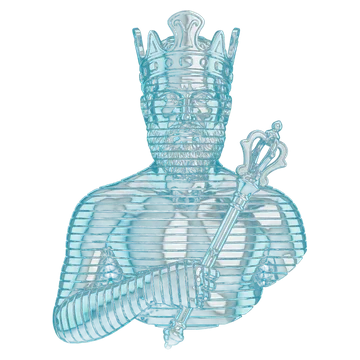
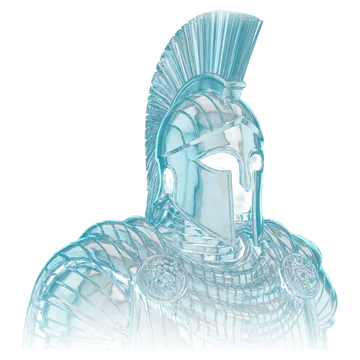
Roadmap: V8 Agamemnon in a closed war helmet with lion medallions

diff --git a/public/roadmap.html b/public/roadmap.html
@@ -175,7 +175,7 @@
     </div>
     <ol class="rm-later-g">
       <li class="rm-later-c rv"><figure class="rm-later-art" aria-hidden="true" style="--d:-0.0s;--m:url(/img/roadmap/later/v7-athena.webp)"><span class="rm-later-fig"><img src="/img/roadmap/later/v7-athena.webp" alt="" loading="lazy" decoding="async" width="360" height="360"><i></i></span></figure><span class="rm-later-v">V7</span><b>Athena</b><small>Goddess of wisdom and strategy, Odysseus's guide</small><span>Strategy: agents that plan better.</span></li>
-      <li class="rm-later-c rv"><figure class="rm-later-art" aria-hidden="true" style="--d:-1.1s;--m:url(/img/roadmap/later/v8-agamemnon.webp)"><span class="rm-later-fig"><img src="/img/roadmap/later/v8-agamemnon.webp" alt="" loading="lazy" decoding="async" width="360" height="360"><i></i></span></figure><span class="rm-later-v">V8</span><b>Agamemnon</b><small>King of Mycenae, commander of every Greek army at Troy</small><span>Command: many agents led as one.</span></li>
+      <li class="rm-later-c rv"><figure class="rm-later-art" aria-hidden="true" style="--d:-1.1s;--m:url(/img/roadmap/later/v8-agamemnon.webp?v=3)"><span class="rm-later-fig"><img src="/img/roadmap/later/v8-agamemnon.webp?v=3" alt="" loading="lazy" decoding="async" width="360" height="360"><i></i></span></figure><span class="rm-later-v">V8</span><b>Agamemnon</b><small>King of Mycenae, commander of every Greek army at Troy</small><span>Command: many agents led as one.</span></li>
       <li class="rm-later-c rv"><figure class="rm-later-art" aria-hidden="true" style="--d:-2.2s;--m:url(/img/roadmap/later/v9-achilles.webp)"><span class="rm-later-fig"><img src="/img/roadmap/later/v9-achilles.webp" alt="" loading="lazy" decoding="async" width="360" height="360"><i></i></span></figure><span class="rm-later-v">V9</span><b>Achilles</b><small>The greatest warrior of the Trojan War</small><span>Strength and speed for serious traders.</span></li>
       <li class="rm-later-c rv"><figure class="rm-later-art" aria-hidden="true" style="--d:-3.3s;--m:url(/img/roadmap/later/v10-poseidon.webp)"><span class="rm-later-fig"><img src="/img/roadmap/later/v10-poseidon.webp" alt="" loading="lazy" decoding="async" width="360" height="360"><i></i></span></figure><span class="rm-later-v">V10</span><b>Poseidon</b><small>God of the sea, the voyage's hardest crossing</small><span>The seas: liquidity and more chains.</span></li>
       <li class="rm-later-c rv"><figure class="rm-later-art" aria-hidden="true" style="--d:-4.4s;--m:url(/img/roadmap/later/v11-penelope.webp)"><span class="rm-later-fig"><img src="/img/roadmap/later/v11-penelope.webp" alt="" loading="lazy" decoding="async" width="360" height="360"><i></i></span></figure><span class="rm-later-v">V11</span><b>Penelope</b><small>Odysseus's wife, weaving and waiting for years</small><span>Patience: tools for the long run.</span></li>
